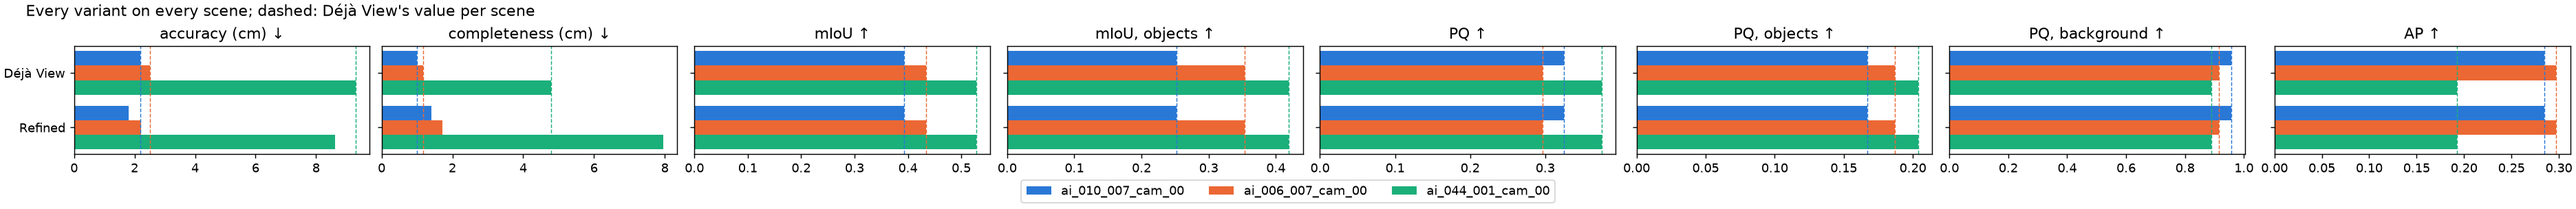
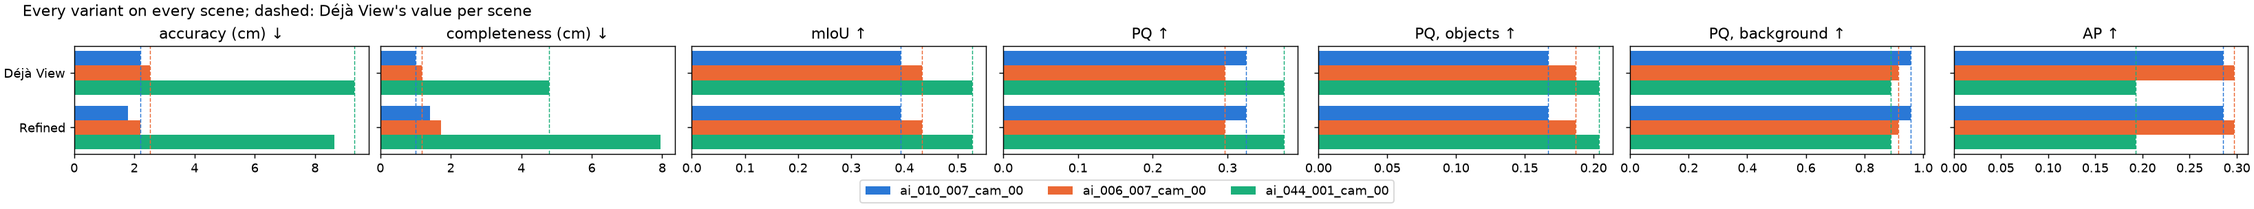
Drop the object-only mIoU
Semantic benchmarks average mIoU over every class, wall and floor
included (OneFormer3D: "Two more categories (wall and floor) are added
for semantic and panoptic evaluation"); no paper we compare against
reports an object-only mIoU. PQ keeps PanSt3R's split into PQ_th and
PQ_st, and AP stays over object classes, as the instance benchmarks.

diff --git a/src/evaluation/labeled.py b/src/evaluation/labeled.py
@@ -28,10 +28,10 @@ split into two ids across views is two segments (the scene-level metrics of Pano
 Lifting, PanSt3R). The background classes (walls, floor, ceiling) have no instances in
 Hypersim's ground truth; there, and in the output, all pixels of such a class form one
 segment. Per class, every evaluated class is scored. mIoU and PQ are averaged over all
-classes, as reported elsewhere, and over the object classes alone (`_th`, PanSt3R's
-PQ_th; PQ_st is the background's); AP is over object classes only, as the instance
-benchmarks report it. The scene's surface scores cover every pixel, background
-included, as the geometry protocols do.
+classes, as semantic and panoptic benchmarks report them; PQ also over the object
+classes (PQ_th) and the background ones (PQ_st), as PanSt3R. AP is over object classes
+only, as the instance benchmarks report it. The scene's surface scores cover every
+pixel, background included, as the geometry protocols do.
 
 - mIoU: IoU per class over non-void points, mean over the classes in either.
 - PQ, SQ, RQ (Kirillov et al. 2019, scene-level as in Panoptic Lifting): a predicted
@@ -378,7 +378,6 @@ def label_metrics(
     background = [c for c in evaluated if c in BACKGROUND]
     return {
         "miou": mean(list(ious.values())),
-        "miou_th": mean([ious[c] for c in objects if c in ious]),
         **{k: mean([v[k] for v in pq.values()]) for k in ("pq", "sq", "rq")},
         **{
             f"{k}_th": mean([pq[c][k] for c in objects if c in pq])

diff --git a/tests/test_labeled.py b/tests/test_labeled.py
@@ -73,7 +73,7 @@ def test_ground_truth_against_itself_is_perfect() -> None:
     assert set(surface["surface_per_class"]) == {"floor", "chair"}
     scores = labels(truth, truth.instance, truth.classes, {1: 0.9, 2: 0.8})
     assert scores["miou"] == scores["pq"] == scores["ap"] == 1.0
-    assert scores["miou_th"] == scores["pq_th"] == scores["pq_st"] == 1.0
+    assert scores["pq_th"] == scores["pq_st"] == 1.0
 
 
 def test_an_outlier_counts_with_its_full_distance() -> None:
@@ -170,6 +170,6 @@ def test_background_counts_in_the_all_class_means_only() -> None:
     ids = truth.instance.copy()
     ids[truth.instance == 0] = NONE  # the floor is never found
     scores = labels(truth, ids, truth.classes, {1: 0.9, 2: 0.8})
-    assert scores["miou_th"] == scores["pq_th"] == 1.0
+    assert scores["pq_th"] == 1.0
     assert scores["miou"] == scores["pq"] == 0.5  # floor 0, chair 1
     assert scores["pq_st"] == 0.0

diff --git a/src/analysis/scene_figures.py b/src/analysis/scene_figures.py
@@ -38,7 +38,6 @@ LABELS = {
     "accuracy_cm": "accuracy (cm) ↓",
     "completeness_cm": "completeness (cm) ↓",
     "miou": "mIoU ↑",
-    "miou_th": "mIoU, objects ↑",
     "pq": "PQ ↑",
     "pq_th": "PQ, objects ↑",
     "pq_st": "PQ, background ↑",

diff --git a/src/analysis/scene_eval.py b/src/analysis/scene_eval.py
@@ -50,7 +50,6 @@ HEADLINE = (
     "accuracy_cm",
     "completeness_cm",
     "miou",
-    "miou_th",
     "pq",
     "pq_th",
     "pq_st",

diff --git a/figures/eval_hypersim-20261103-180820/README.md b/figures/eval_hypersim-20261103-180820/README.md
@@ -12,8 +12,8 @@ changed:
 - **Labels:** the output's label at each ground-truth pixel, instead of the nearest predicted
   point within 5 cm; mIoU, scene-level PQ and 3D instance AP / AP50 / AP25,
   without the 100-voxel minimum. Walls, floor and ceiling are one segment per class; mIoU and
-  PQ are averaged over all classes and over object classes alone (`_th`, PQ_st for the
-  background), AP over object classes. The surface scores cover every pixel.
+  PQ are averaged over all classes, PQ also over objects (PQ_th) and background (PQ_st),
+  AP over object classes. The surface scores cover every pixel.
 
 ```bash
 uv run python -m src.analysis.scene_eval --cfg configs/eval_hypersim.yaml       # 1.5 min
@@ -31,11 +31,11 @@ uv run python -m src.analysis.scene_figures --run runs/eval_hypersim-<time>
 | lobby | Déjà View | 9.31 | 5.33 | 4.80 | 2.36 |
 | lobby | Refined | 8.63 | 4.84 | 7.96 | 3.66 |
 
-| scene | mIoU | mIoU_th | PQ | SQ | RQ | PQ_th | SQ_th | RQ_th | PQ_st | AP | AP50 | AP25 |
-|---|---|---|---|---|---|---|---|---|---|---|---|---|
-| living room | 0.393 | 0.252 | 0.325 | 0.367 | 0.351 | 0.167 | 0.219 | 0.189 | 0.956 | 0.285 | 0.370 | 0.443 |
-| bedroom | 0.434 | 0.353 | 0.297 | 0.424 | 0.337 | 0.187 | 0.337 | 0.220 | 0.916 | 0.297 | 0.382 | 0.480 |
-| lobby | 0.528 | 0.419 | 0.375 | 0.566 | 0.436 | 0.204 | 0.458 | 0.247 | 0.889 | 0.193 | 0.278 | 0.419 |
+| scene | mIoU | PQ | SQ | RQ | PQ_th | SQ_th | RQ_th | PQ_st | AP | AP50 | AP25 |
+|---|---|---|---|---|---|---|---|---|---|---|---|
+| living room | 0.393 | 0.325 | 0.367 | 0.351 | 0.167 | 0.219 | 0.189 | 0.956 | 0.285 | 0.370 | 0.443 |
+| bedroom | 0.434 | 0.297 | 0.424 | 0.337 | 0.187 | 0.337 | 0.220 | 0.916 | 0.297 | 0.382 | 0.480 |
+| lobby | 0.528 | 0.375 | 0.566 | 0.436 | 0.204 | 0.458 | 0.247 | 0.889 | 0.193 | 0.278 | 0.419 |
 
 - Pixel grids line up: shifting Déjà View's output by one pixel (±1 in u or v) raises the
   median per-pixel error after alignment in the living room (2.91 → 3.04-5.20 cm) and the
@@ -46,8 +46,7 @@ uv run python -m src.analysis.scene_figures --run runs/eval_hypersim-<time>
 - Label scores are the same for both variants: the labels are the linked SAM 3 masks, scored
   per pixel, and refinement does not change them.
 - Background classes alone: IoU and PQ 0.85-0.98 (wall, floor, ceiling in every scene),
-  so the all-class means sit 0.08-0.17 above the object-only ones.
-- mIoU over only the object classes present in the ground truth would be 0.378 / 0.489 /
-  0.699; the 4-5 classes per scene that SAM 3 finds but the scene lacks count as 0.
+  so PQ sits 0.11-0.17 above PQ_th.
+- The 4-5 classes per scene that SAM 3 finds but the scene lacks count as 0 in mIoU and PQ.
 - Uncapped, the lobby's accuracy is 9.31 cm against 6.13 cm with the 20 cm cap: its outliers
   are far.

diff --git a/README.md b/README.md
@@ -163,9 +163,9 @@ One protocol for every variant (`src/analysis/scene_eval.py`, `configs/eval_hype
     of each ground-truth pixel. An object is one segment over all views, so an object
     split across views counts as two.
   - Walls, floor and ceiling are background: one segment per class. mIoU and PQ are
-    averaged over all classes (as reported elsewhere) and over object classes alone
-    (`_th`, with PQ_st for the background, as PanSt3R); AP is over object classes. The
-    surface scores cover every pixel, as in the geometry protocols above.
+    averaged over all classes, PQ also over objects (PQ_th) and background (PQ_st), as
+    PanSt3R; AP is over object classes, as the instance benchmarks. The surface scores
+    cover every pixel, as in the geometry protocols above.
 
 ```bash
 uv run hypersim-download --splits dev && uv run hypersim-prepare --splits dev
@@ -183,7 +183,7 @@ Living room, bedroom and hotel lobby, 20 views each, every energy weight 1, none
 
 | labels (both variants) | living room | bedroom | lobby |
 |---|---|---|---|
-| mIoU, all / objects | 0.393 / 0.252 | 0.434 / 0.353 | 0.528 / 0.419 |
+| mIoU | 0.393 | 0.434 | 0.528 |
 | PQ, all / objects / background | 0.325 / 0.167 / 0.956 | 0.297 / 0.187 / 0.916 | 0.375 / 0.204 / 0.889 |
 | AP / AP50 / AP25 | 0.285 / 0.370 / 0.443 | 0.297 / 0.382 / 0.480 | 0.193 / 0.278 / 0.419 |
 
